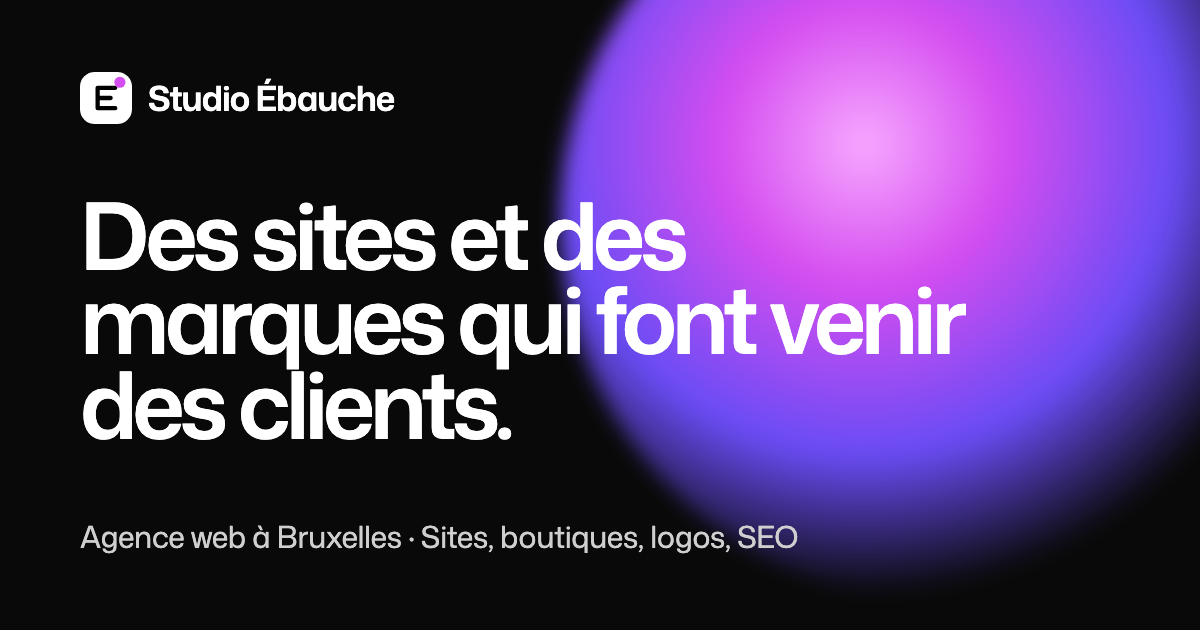
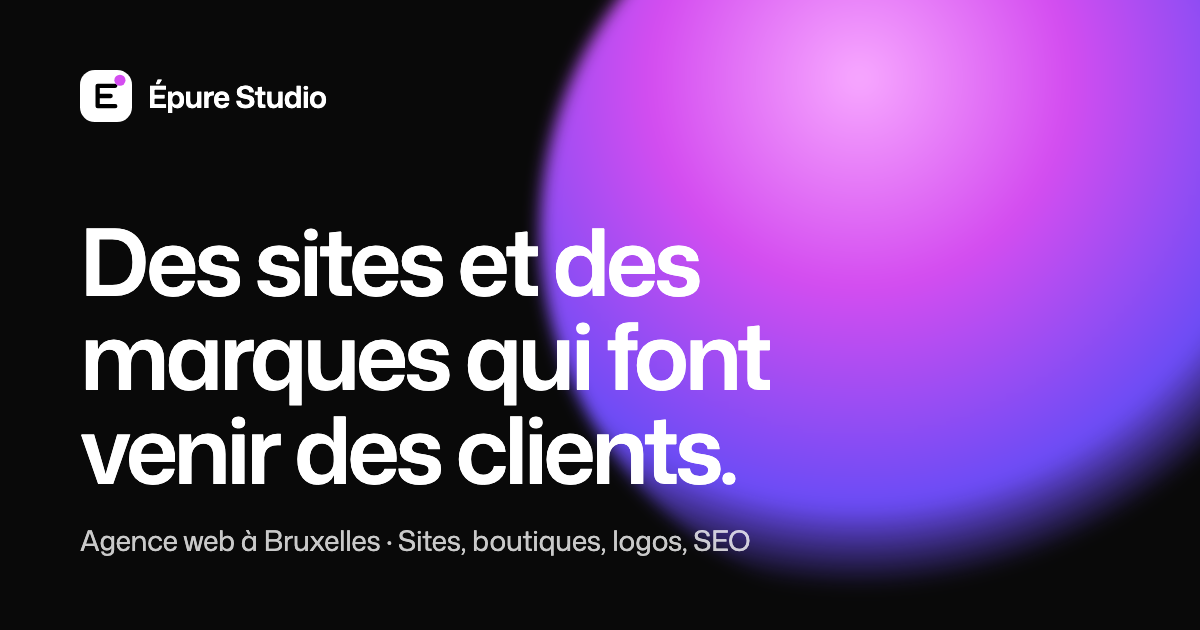
Site au nom d'Épure Studio : coordonnées, page À propos, mentions légales, image de partage

diff --git a/src/lib/site.ts b/src/lib/site.ts
@@ -6,6 +6,11 @@ export const NB = ' ';
 export const BRAND = reglages.marque;
 export const SITE_URL = reglages.url_site;
 export const EMAIL = reglages.email;
+export const TEL = reglages.telephone;
+// 0467 66 26 29 → +32467662629 (format international pour les liens « appeler »)
+export const TEL_INTL = '+32' + TEL.replace(/\D/g, '').replace(/^0/, '');
+export const VILLE = reglages.ville;
+export const FONDATEUR = reglages.fondateur;
 export const TODAY = reglages.date_maj;
 export const FAMS = services.familles;
 export const SV = services.services;
@@ -18,13 +23,14 @@ export const prixDepart = (s: Service) => (s.prix_unique ? e(s.prix_unique) : e(
 export const ORG_ID = SITE_URL + '/#agence';
 export const ORG = {
   '@context': 'https://schema.org', '@type': 'ProfessionalService', '@id': ORG_ID,
-  name: BRAND, url: SITE_URL + '/', email: EMAIL, image: SITE_URL + '/og-image.png',
+  name: BRAND, url: SITE_URL + '/', email: EMAIL, telephone: TEL_INTL, image: SITE_URL + '/og-image.png',
   logo: SITE_URL + '/logo.png', priceRange: '€€',
   description: 'Agence web à Bruxelles : création de sites internet, boutiques en ligne, logos, devantures, référencement, Google Ads et réseaux sociaux pour les indépendants et PME.',
   address: { '@type': 'PostalAddress', addressLocality: 'Bruxelles', addressRegion: 'Région de Bruxelles-Capitale', addressCountry: 'BE' },
   areaServed: [{ '@type': 'City', name: 'Bruxelles' }, { '@type': 'Country', name: 'Belgique' }],
   openingHoursSpecification: [{ '@type': 'OpeningHoursSpecification', dayOfWeek: ['Monday', 'Tuesday', 'Wednesday', 'Thursday', 'Friday'], opens: '09:00', closes: '18:00' }],
   knowsLanguage: ['fr'],
+  founder: { '@type': 'Person', name: FONDATEUR, jobTitle: 'Développeur web' },
 };
 
 // Catégories de la page Réalisations (mêmes valeurs que dans content.config.ts et .pages.yml)

diff --git a/outils/og-image.html b/outils/og-image.html
@@ -1,0 +1,27 @@
+<!doctype html>
+<!-- Image de partage (réseaux sociaux, WhatsApp…). Régénérer avec : bash outils/og-image.sh -->
+<html lang="fr">
+<head>
+<meta charset="utf-8">
+<style>
+  @font-face { font-family: "Mona Sans"; font-weight: 200 900; src: url("../public/fonts/mona-sans-latin.woff2") format("woff2"); }
+  html, body { margin: 0; width: 1200px; height: 630px; overflow: hidden; }
+  body { background: #090909; color: #fff; font-family: "Mona Sans", sans-serif; position: relative; }
+  .blob { position: absolute; left: 540px; top: -150px; width: 760px; height: 760px; border-radius: 50%;
+    background: radial-gradient(circle at 42% 30%, #F7A8FF 0%, #D44DF0 30%, #6A4CF5 62%, rgba(106,76,245,0) 74%); filter: blur(8px); }
+  .wrap { position: absolute; inset: 70px 80px; display: flex; flex-direction: column; }
+  .brand { display: flex; align-items: center; gap: 16px; font-size: 30px; font-weight: 600; letter-spacing: -0.02em; }
+  .brand svg { width: 52px; height: 52px; }
+  h1 { margin: 92px 0 0; font-size: 92px; line-height: 1.02; font-weight: 600; letter-spacing: -0.045em; max-width: 900px; }
+  p { margin: auto 0 0; font-size: 28px; color: rgba(255,255,255,.78); letter-spacing: -0.01em; }
+</style>
+</head>
+<body>
+  <div class="blob"></div>
+  <div class="wrap">
+    <div class="brand"><svg viewBox="0 0 28 28"><rect width="28" height="28" rx="8" fill="#fff"/><path d="M19 8.5H9.5v11H19M9.5 14h7" fill="none" stroke="#000" stroke-width="2.3" stroke-linecap="round" stroke-linejoin="round"/><circle cx="21.5" cy="5.5" r="3" fill="#D44DF0"/></svg>Épure Studio</div>
+    <h1>Des sites et des marques qui font venir des clients.</h1>
+    <p>Agence web à Bruxelles · Sites, boutiques, logos, SEO</p>
+  </div>
+</body>
+</html>

diff --git a/src/pages/llms.txt.ts b/src/pages/llms.txt.ts
@@ -1,6 +1,6 @@
 // llms.txt : résumé du site pour les assistants IA
 import { getCollection } from 'astro:content';
-import { BRAND, EMAIL, FAMS, SITE_URL, SV } from '../lib/site';
+import { BRAND, EMAIL, FAMS, FONDATEUR, SITE_URL, SV, TEL } from '../lib/site';
 
 export async function GET() {
   const price = (s: (typeof SV)[number]) => (s.prix_unique ? `à partir de ${s.prix_unique} € HT` : `à partir de ${s.prix_mensuel} € HT par mois`);
@@ -14,7 +14,8 @@ export async function GET() {
 - Zone : Bruxelles et toute la Belgique, à distance ou sur place
 - Langue : français
 - Devis gratuit sous 48 h, ou appel de 30 minutes : ${SITE_URL}/devis
-- Contact : ${EMAIL}, du lundi au vendredi de 9 h à 18 h
+- Contact : ${EMAIL} ou ${TEL}, du lundi au vendredi de 9 h à 18 h
+- Fondateur : ${FONDATEUR}, développeur web
 - Paiement : 40 % à la signature et 60 % à la mise en ligne, ou en 12 mensualités sans frais
 - Le client est propriétaire de son nom de domaine, de ses contenus et de son logo
 

diff --git a/public/styles.css b/public/styles.css
@@ -1,4 +1,4 @@
-/* Studio Ébauche — système inspiré de la fiche Framer (awesome-design-md) :
+/* Épure Studio — système inspiré de la fiche Framer (awesome-design-md) :
    canevas noir, titres-affiches très serrés, pilules blanches,
    cartes « spotlight » en dégradés vifs, un seul bleu pour liens et focus. */
 /* Police hébergée sur le site (plus rapide que Google Fonts) */

diff --git a/src/content/articles/prix-site-vitrine.md b/src/content/articles/prix-site-vitrine.md
@@ -1,7 +1,7 @@
 ---
 titre: "Combien coûte un site vitrine en Belgique en 2026 ?"
 titre_carte: "Combien coûte un site vitrine en 2026 ?"
-titre_seo: "Prix d'un site vitrine en Belgique (2026) | Studio Ébauche"
+titre_seo: "Prix d'un site vitrine en Belgique (2026) | Épure Studio"
 fil_ariane: "Prix d'un site vitrine"
 description: "Combien coûte un site vitrine en Belgique en 2026 ? Fourchettes de prix, ce qui fait varier le coût et frais annuels à prévoir, expliqués simplement."
 resume: "Les vraies fourchettes de prix, ce qui les fait varier et les frais à prévoir chaque année."

diff --git a/README.md b/README.md
@@ -35,5 +35,6 @@ Les pages ont des adresses courtes : `/services`, `/realisations`, etc. Un nouve
 ## Dossiers
 
 - `public/` : fichiers copiés tels quels (CSS, JS, polices, logo).
+- `outils/og-image.html` : image de partage sur les réseaux. Après modification, lancer `bash outils/og-image.sh`.
 - `ressources/` : références de design, pas publiées.
 - `ancien/` : l'ancienne version (script Python), à supprimer une fois le nouveau site validé.
